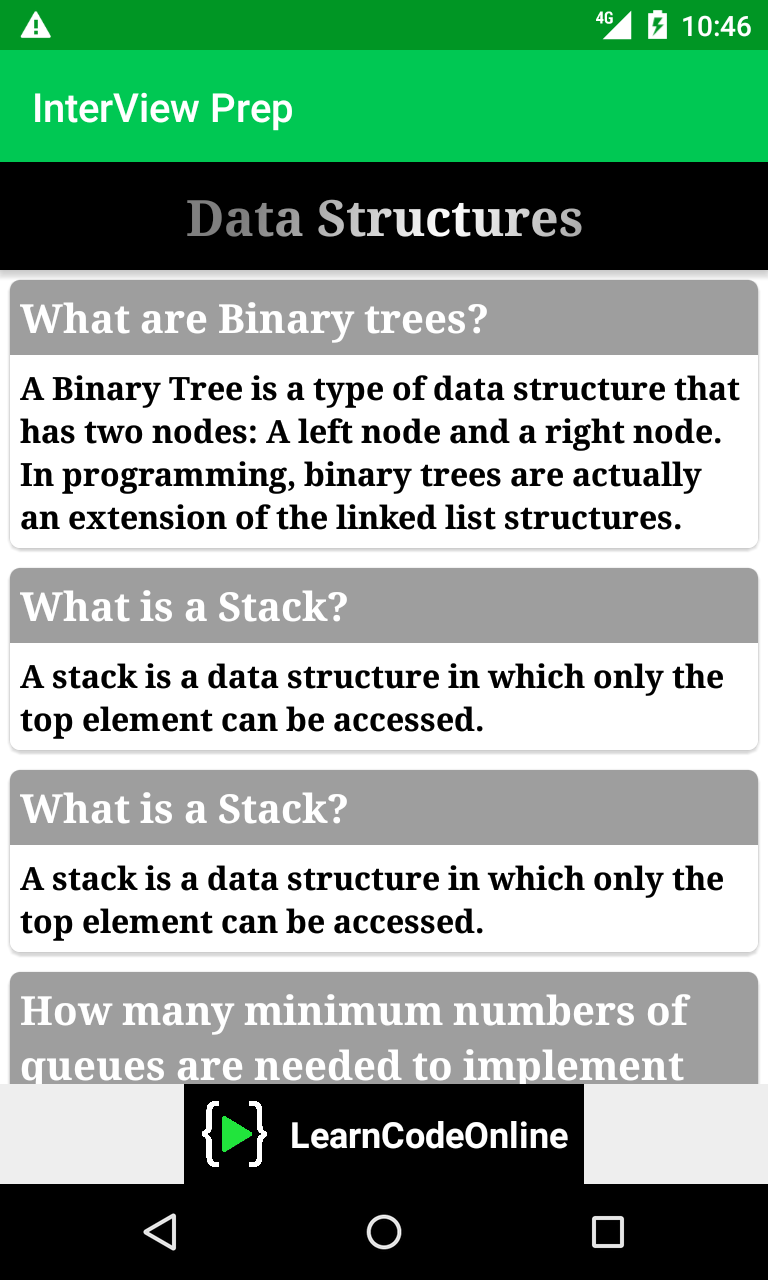
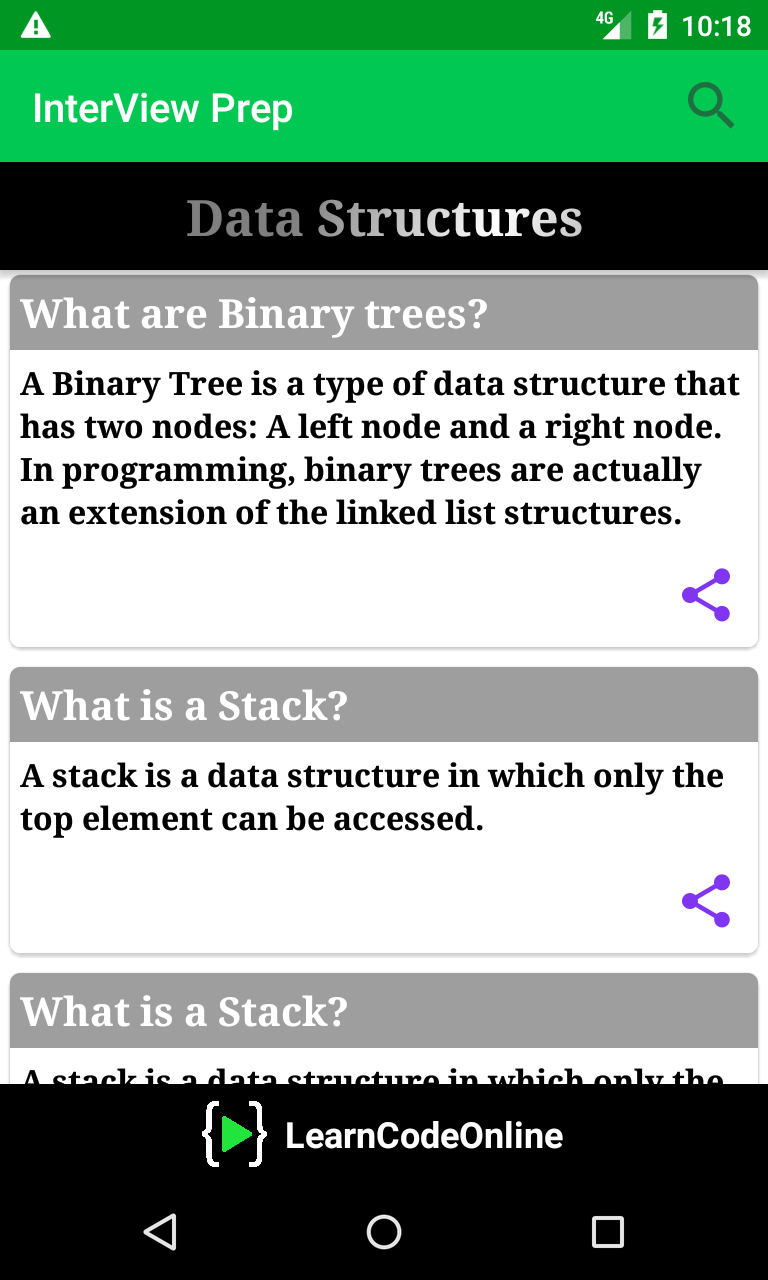
Share question added with minor UI changes

diff --git a/app/src/main/java/com/example/rajarshi/interviewprep/ui/Questions.java b/app/src/main/java/com/example/rajarshi/interviewprep/ui/Questions.java
@@ -5,12 +5,16 @@ import android.content.Intent;
 import android.net.Uri;
 import android.os.Bundle;
 import android.os.Handler;
+import android.support.v4.view.MenuItemCompat;
 import android.support.v4.widget.SwipeRefreshLayout;
 import android.support.v7.app.AppCompatActivity;
 import android.support.v7.widget.DefaultItemAnimator;
 import android.support.v7.widget.LinearLayoutManager;
 import android.support.v7.widget.RecyclerView;
+import android.support.v7.widget.SearchView;
 import android.util.Log;
+import android.view.Menu;
+import android.view.MenuItem;
 import android.view.View;
 import android.widget.LinearLayout;
 import android.widget.Toast;
@@ -32,7 +36,7 @@ import java.util.List;
 
 import es.dmoral.toasty.Toasty;
 
-public class Questions extends AppCompatActivity implements APIResult, SwipeRefreshLayout.OnRefreshListener {
+public class Questions extends AppCompatActivity implements APIResult, SwipeRefreshLayout.OnRefreshListener, SearchView.OnQueryTextListener {
 
 
     private boolean flag = true;
@@ -49,7 +53,7 @@ public class Questions extends AppCompatActivity implements APIResult, SwipeRefr
     protected void onCreate(Bundle savedInstanceState) {
         super.onCreate(savedInstanceState);
         setContentView(R.layout.questions);
-        ctx =this;
+        ctx = this;
 
         titleShimmer = findViewById(R.id.shimmerTitleQuestions);
         bannerAd = findViewById(R.id.bannerAdQuestions);
@@ -72,7 +76,7 @@ public class Questions extends AppCompatActivity implements APIResult, SwipeRefr
         recyclerView = (RecyclerView) findViewById(R.id.questionsListRecycler);
         refreshLayout = findViewById(R.id.swipeRefresh);
         refreshLayout.setOnRefreshListener(this);
-        mAdapter = new InterviewAdapter(questionAnswersList,ctx);
+        mAdapter = new InterviewAdapter(questionAnswersList, ctx);
         RecyclerView.LayoutManager mLayoutManager = new LinearLayoutManager(getApplicationContext());
         recyclerView.setLayoutManager(mLayoutManager);
         recyclerView.setItemAnimator(new DefaultItemAnimator());
@@ -165,5 +169,37 @@ public class Questions extends AppCompatActivity implements APIResult, SwipeRefr
         }, 1000);
         fetchData();
         mAdapter.notifyDataSetChanged();
+    }
+
+    @Override
+    public boolean onCreateOptionsMenu(Menu menu) {
+        getMenuInflater().inflate(R.menu.searchmenuquestions, menu);
+        MenuItem menuItem = menu.findItem(R.id.searchQuestion);
+        SearchView searchView = (SearchView) MenuItemCompat.getActionView(menuItem);
+        searchView.setOnQueryTextListener(this);
+        searchView.setQueryHint("Search by question");
+        return true;
+    }
+
+    @Override
+    public boolean onQueryTextSubmit(String query) {
+        return false;
+    }
+
+    @Override
+    public boolean onQueryTextChange(String newText) {
+        filter(newText);
+        return true;
+    }
+
+    void filter(String text) {
+        List<QuestionAnswerModel> temp = new ArrayList();
+        for (QuestionAnswerModel d : questionAnswersList) {
+            Log.d("Data ", "filter: " + d.getQuestions());
+            if (d.getQuestions().toLowerCase().contains(text.toLowerCase())) {
+                temp.add(d);
+            }
+        }
+        mAdapter.setFilter(temp);
     }
 }

diff --git a/app/src/main/java/com/example/rajarshi/interviewprep/recyclerViewAdapter/InterviewAdapter.java b/app/src/main/java/com/example/rajarshi/interviewprep/recyclerViewAdapter/InterviewAdapter.java
@@ -1,6 +1,7 @@
 package com.example.rajarshi.interviewprep.recyclerViewAdapter;
 
 import android.content.Context;
+import android.content.Intent;
 import android.support.annotation.NonNull;
 import android.support.v7.widget.RecyclerView;
 import android.view.LayoutInflater;
@@ -8,10 +9,12 @@ import android.view.View;
 import android.view.ViewGroup;
 import android.view.animation.Animation;
 import android.view.animation.AnimationUtils;
+import android.widget.ImageButton;
 import android.widget.TextView;
 
 import com.example.rajarshi.interviewprep.R;
 
+import java.util.ArrayList;
 import java.util.List;
 
 public class InterviewAdapter extends RecyclerView.Adapter<InterviewAdapter.MyViewHolder> {
@@ -34,9 +37,26 @@ public class InterviewAdapter extends RecyclerView.Adapter<InterviewAdapter.MyVi
 
     @Override
     public void onBindViewHolder(@NonNull final MyViewHolder holder, int position) {
-        QuestionAnswerModel questionAnswer = questionAnswersList.get(position);
+        final QuestionAnswerModel questionAnswer = questionAnswersList.get(position);
         holder.question.setText(questionAnswer.getQuestions());
         holder.answer.setText(questionAnswer.getAnswers());
+
+        holder.share.setOnClickListener(new View.OnClickListener() {
+            @Override
+            public void onClick(View v) {
+
+
+                Intent myIntent = new Intent(Intent.ACTION_SEND);
+                myIntent.setType("text/plain");
+                myIntent.setFlags(Intent.FLAG_ACTIVITY_NEW_TASK);
+                myIntent.putExtra(Intent.EXTRA_SUBJECT, "Data Structure question of the day");
+                String sAux = "Data Structure question of the day \n";
+                sAux = sAux + "\n" + "Question :" + questionAnswer.getQuestions() + "\n";
+                sAux = sAux + "Answer :" + questionAnswer.getAnswers() + "\n\n";
+                myIntent.putExtra(Intent.EXTRA_TEXT, sAux);
+                ctx.startActivity(Intent.createChooser(myIntent, "Share via"));
+            }
+        });
         animate(holder);
     }
 
@@ -47,16 +67,25 @@ public class InterviewAdapter extends RecyclerView.Adapter<InterviewAdapter.MyVi
 
     public class MyViewHolder extends RecyclerView.ViewHolder {
         public TextView question, answer;
+        public ImageButton share;
 
         public MyViewHolder(View view) {
             super(view);
             question = (TextView) view.findViewById(R.id.interviewQuestion);
             answer = (TextView) view.findViewById(R.id.interviewAnswer);
+            share = view.findViewById(R.id.shareQuestionAndAnswer);
         }
     }
 
     public void animate(RecyclerView.ViewHolder viewHolder) {
         final Animation animAnticipateOvershoot = AnimationUtils.loadAnimation(ctx, R.anim.fadein);
         viewHolder.itemView.setAnimation(animAnticipateOvershoot);
+    }
+
+    public void setFilter(List<QuestionAnswerModel> newarraylist) {
+        questionAnswersList = new ArrayList<>();
+        questionAnswersList.addAll(newarraylist);
+        notifyDataSetChanged();
+
     }
 }

diff --git a/app/src/main/java/com/example/rajarshi/interviewprep/ui/Greetings.java b/app/src/main/java/com/example/rajarshi/interviewprep/ui/Greetings.java
@@ -61,7 +61,7 @@ public class Greetings extends AppCompatActivity {
             @Override
             public void run() {
                 new BadgeView.AnimationSet(intro)
-                        .add("Welcome", 600)
+                        .add("Welcome", 800)
                         .addDelay(200)
                         .add("Press Start to Continue", 800)
                         .play();

diff --git a/README.md b/README.md
@@ -16,7 +16,7 @@ Interview Prep. is a basic android app which will help students to learn about d
 ## Getting Started
 
 you just need an android device running Android Lollipop 5.1 to run this application provided below:
-Download APK file : [Click here to download](https://drive.google.com/open?id=1wo-BiXXi__55rSEoFeiMuUR_m6t-ZEqs)
+Download APK file : [Click here to download](https://drive.google.com/open?id=1gu2j3z9VbsNm9XV8dzhqj5-8spH9U93r)
 
 ## Contributors
 
